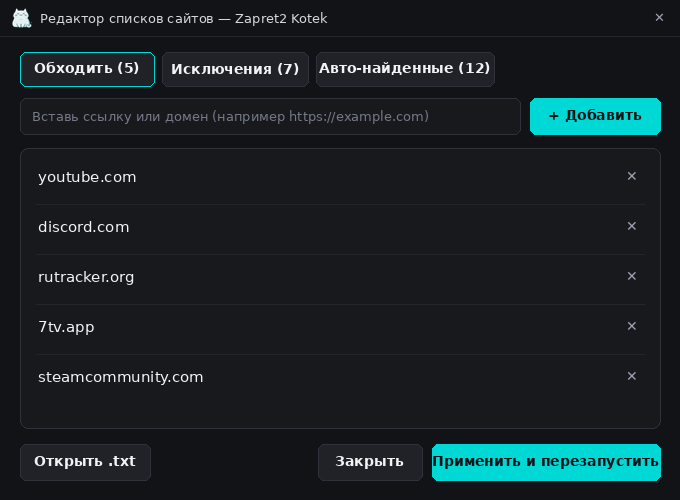
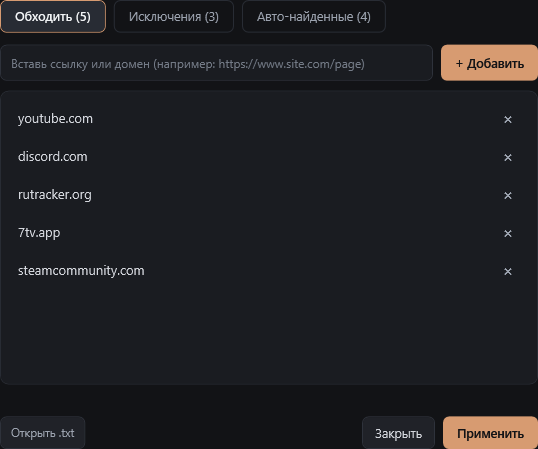
Release v1.1.0

diff --git a/README.md b/README.md
@@ -1,108 +1,86 @@
-# Zapret2 Kotek
+<p align="center">
+  <img src="utils/kotek_happy.png" width="96" alt="Котек" />
+</p>
 
-Windows-сборка (x64) для обхода DPI на базе `winws2.exe` ([bol-van/zapret2](https://github.com/bol-van/zapret2), ядро 1.0.7) и списков [Flowseal/zapret-discord-youtube](https://github.com/Flowseal/zapret-discord-youtube) (база 1.10.4). Включает WPF-интерфейс, автоподбор стратегий под провайдера, локальный Telegram MTProto WS Proxy и точечный обход ИИ-сервисов через Windows NRPT.
+<h1 align="center">Zapret2 Kotek</h1>
 
-[**Скачать v1.1.0 (Windows 10 / 11 x64)**](https://github.com/vanch150/zapret2-kotek/releases/latest) · [Релизы](https://github.com/vanch150/zapret2-kotek/releases) · [Лицензия MIT](LICENSE)
+<p align="center">
+  Настольная сборка <a href="https://github.com/bol-van/zapret2">zapret2</a> для Windows с нормальным интерфейсом, автоподбором стратегий, локальным Telegram-прокси и доступом к ИИ-сервисам.
+</p>
+
+<p align="center">
+  <a href="https://github.com/vanch150/zapret2-kotek/releases/latest"><strong>Скачать v1.1.0</strong></a> ·
+  <a href="https://github.com/vanch150/zapret2-kotek/releases">Все релизы</a> ·
+  <a href="#зачем-этот-проект">О проекте</a> ·
+  <a href="#быстрый-старт">Установка</a> ·
+  <a href="LICENSE">MIT</a>
+</p>
 
 ![Главное окно Zapret2 Kotek](docs/screenshots/home.png)
 
+## Зачем этот проект
+
+Сам по себе [zapret2](https://github.com/bol-van/zapret2) — отличный инструмент, но в базовом виде это консольная утилита и десятки `.bat`-файлов, которые нужно перебирать вручную, а потом ещё отдельно разбираться с Telegram, нейросетями, сломанным YouTube в браузере и конфликтами с VPN или античитами.
+
+**Zapret2 Kotek** делался как сборка «поставил и забыл» для обычных домашних ПК на Windows 10/11: без возни в терминале, но с открытым кодом и возможностью тонко всё настроить, если нужно.
+
+## Чем отличается от обычных батников
+
+- **Автоматический подбор вместо ручного перебора.** Программа сама тестирует готовые стратегии на вашем интернете (YouTube, Discord, 7TV, Cloudflare) и выбирает рабочую. Если провайдер режет трафик по-разному для разных сервисов, сборка умеет склеить персональный гибридный конфиг из лучших вариантов.
+- **Telegram и нейросети без сторонних VPN.** Внутрь встроен собственный локальный MTProto-прокси для Telegram Desktop (написан на C#, работает только на `127.0.0.1`) и точечный обход для ИИ-сервисов (Gemini, ChatGPT, Claude, Copilot, Grok, Perplexity, Cursor / Windsurf). Остальной интернет, банки и игры при этом идут напрямую, системный DNS провайдера не ломается.
+- **Уживается с играми и VPN.** Популярные VPN-клиенты (WireGuard, AmneziaWG, OpenVPN) исключаются автоматически и не конфликтуют с обходом. Если нужно зайти в игру со строгим античитом (Vanguard, FACEIT, EAC, BattlEye), обход можно полностью выгрузить вместе с драйвером в один клик, а потом так же вернуть.
+- **Всё открыто и проверяется.** Движок `winws2.exe` и драйвер `WinDivert` взяты напрямую из [bol-van/zapret2](https://github.com/bol-van/zapret2), списки и фейки — на базе [Flowseal/zapret-discord-youtube](https://github.com/Flowseal/zapret-discord-youtube). Обновления выходят только здесь и проверяются по контрольным суммам `SHA256SUMS.txt`.
+
 > [!WARNING]
-> Официальные сборки выходят только в разделе [Releases](https://github.com/vanch150/zapret2-kotek/releases) этого репозитория, каждый архив сопровождается `SHA256SUMS.txt`. Внутри используется подписанный драйвер `WinDivert` из [bol-van/zapret2](https://github.com/bol-van/zapret2) — Windows Defender и антивирусы часто отмечают его как `HackTool/WinDivert` или `RiskTool`. Это ложное срабатывание; при необходимости добавьте папку сборки в исключения антивируса.
+> **Про антивирус:** Windows Defender и антивирусы часто отмечают подписанный драйвер `WinDivert` как `HackTool/WinDivert` или `RiskTool`. Это стандартное ложное срабатывание для всех сборок на базе `zapret`. Скачивайте архив только из раздела [Releases](https://github.com/vanch150/zapret2-kotek/releases) этого репозитория и при необходимости добавьте папку программы в исключения.
 
-## Требования
+## Быстрый старт
 
-- Windows 10 или Windows 11 **x64** (используется 64-битный драйвер `WinDivert64.sys`).
-- Права администратора (нужны для служб Windows, драйвера `WinDivert`, правил NRPT и `hosts`).
-- Папка установки без кириллицы и пробелов (например, `C:\Zapret2`).
+1. Скачайте `zapret2-kotek-v1.1.0.zip` со страницы [Releases](https://github.com/vanch150/zapret2-kotek/releases/latest) и распакуйте в папку с английским путём (например, `C:\Zapret2`).
+2. Запустите `!_START_KOTEK.bat` и подтвердите права администратора.
+3. Запустите быструю настройку прямо в открывшемся окне — через 1–2 минуты службы поднимутся и заработают в фоне. После этого окно можно закрыть, при перезагрузке ПК всё стартует само.
 
-## Установка и запуск
-
-1. Скачайте архив `zapret2-kotek-v1.1.0.zip` со страницы [Releases](https://github.com/vanch150/zapret2-kotek/releases/latest) и распакуйте его в `C:\Zapret2` (или другую папку без русских букв и пробелов). Если запустить из «Загрузок», программа сама предложит перенести сборку в подходящую папку.
-2. Запустите `!_START_KOTEK.bat` и подтвердите запрос прав администратора.
-3. Нажмите **«Настроить быстро»** (1–2 минуты): обновятся списки доменов и IPSet, подберётся UDP-фейк и рабочая стратегия под вашего провайдера, запустятся фоновые службы Windows (`zapret` и `zapret-tgws`).
-4. Если нужен Telegram Desktop, нажмите **«Подключить»** в блоке **Telegram Proxy**.
-
-После настройки окно можно закрыть: обход работает фоновой службой Windows и запускается автоматически после перезагрузки ПК. Для работы без графического окна доступен консольный режим: `!_START_KOTEK.bat --cli`.
-
-## Что входит в сборку
-
-- **Автоподбор и синтез стратегий.** В комплекте 10 базовых стратегий (`strategies\`) и 12 дополнительных (`configs_archive\`). Быстрая настройка проверяет базовый набор; кнопка **«Собрать под себя»** прогоняет все 22 стратегии по 27 целям (YouTube, Discord, Cloudflare, Web + 64-КБ тест по `speed.cloudflare.com`) и собирает гибридный конфиг `custom_auto_synthesized.bat`.
-- **Встроенный Telegram WS Proxy.** Локальный C#-сервис (`utils\TgWsProxyService.cs`, компилируется системным `csc.exe` под .NET Framework 4.x), работает службой `zapret-tgws` под `NT AUTHORITY\NetworkService` и слушает только `127.0.0.1:1443`. Поддерживает режимы `smart` (сначала напрямую, при блокировке через резервный маршрут), `direct` и `cfonly`; использует равноправную гонку `ws://:80` и `wss://:443` без искусственной задержки (весь трафик внутри зашифрован MTProto).
-- **Обход ИИ (Windows NRPT + SmartDNS).** Точечно направляет DNS-запросы выбранных нейросетей через пул SmartDNS (`lists\ai-dns-pool.txt`), не меняя системный DNS провайдера и не затрагивая обычный интернет, игры и банки. Поддерживаются Google Gemini (включая AI Studio и NotebookLM), ChatGPT / OpenAI, Claude (включается только вручную), Copilot, Grok (xAI), Perplexity, Cursor / Windsurf и пользовательский файл `lists\ai-custom-domains.txt`. При включении системного VPN обход ИИ автоматически ставится на паузу и возвращается после отключения VPN.
-- **Совместимость с играми и VPN.** Кнопка **«Пауза»** останавливает службу `zapret` и полностью выгружает драйвер `WinDivert`. Фильтр NLM (`--nlm-filter-neg=1`) по умолчанию автоматически исключает WireGuard, AmneziaWG, OpenVPN и другие VPN-адаптеры; нужные интерфейсы можно переназначить вручную в Настройках.
-- **Фикс браузера (QUIC / DoH).** Раздельные переключатели отключения QUIC (HTTP/3) и включения DoH для Chrome, Edge, Яндекс.Браузера, Brave, Vivaldi и Firefox (для Opera / Opera GX показывается подсказка по `opera://flags/#enable-quic`), с резервной копией политик и полным откатом.
-- **Диагностика и автообновление.** Графическое окно диагностики проверяет службы, драйвер `WinDivert`, 7TV CDN, VPN/NLM, Telegram Proxy и «Обход ИИ» (секреты и пути профиля в копируемом отчёте маскируются). Автообновление работает в простое ПК с обязательной проверкой `SHA256SUMS.txt`.
+Удалить программу полностью (включая службы, драйвер, правила DNS и `hosts`) можно из настроек приложения или файлом `utils\UNINSTALL.bat`.
 
 <details>
-<summary>Другие скриншоты интерфейса</summary>
+<summary>Ещё скриншоты интерфейса</summary>
 
-**Вкладка «Стратегии»** — рейтинг по результатам проверки, ручной тест и импорт своего `.bat`:
+![Стратегии](docs/screenshots/strategies.png)
 
-![Вкладка Стратегии](docs/screenshots/strategies.png)
-
-**Вкладка «Настройки»** — переключатели параметров обхода, списки, диагностика, обновления и удаление:
-
-![Вкладка Настройки](docs/screenshots/settings.png)
-
-**Редактор списков и фильтр VPN (NLM):**
+![Настройки](docs/screenshots/settings.png)
 
 <table>
 <tr>
-<td width="50%"><img src="docs/screenshots/lists_dialog.png" alt="Редактор списков сайтов" /></td>
-<td width="50%"><img src="docs/screenshots/nlm_dialog.png" alt="Исключение VPN-адаптеров NLM" /></td>
+<td width="50%"><img src="docs/screenshots/lists_dialog.png" alt="Свои списки сайтов" /></td>
+<td width="50%"><img src="docs/screenshots/nlm_dialog.png" alt="Исключение VPN-адаптеров" /></td>
 </tr>
 </table>
 
 </details>
 
-## Ограничения и приватность
+## Что стоит учитывать
 
-- Это не VPN: трафик не шифруется и ваш IP-адрес не скрывается. Инструмент обходит DPI-блокировки провайдера и не открывает сервисы, которые сами ограничивают доступ по региону (исключение — выбранные нейросети в разделе «Обход ИИ» через SmartDNS).
-- Работоспособность конкретной стратегии зависит от провайдера и конфигурации ТСПУ. Если сайты перестали открываться, запустите подбор стратегий повторно.
-- Телеметрия выключена по умолчанию. Добровольные анонимные отчёты (версия сборки, активная стратегия и коды сбоев — без IP, путей на диске и списков сайтов) можно включить вручную в разделе **Настройки → Поддержка проекта**.
-
-## Частые проблемы
-
-- **Тормозит YouTube или не грузятся смайлы 7TV в браузере.** На Главной раскройте **«Фикс браузера (QUIC / DoH)» → «Параметры»**, включите **«Отключить QUIC (HTTP/3)»** и полностью перезапустите браузер. Если вы используете «Обход ИИ», тумблер **DoH** оставьте выключенным — браузерный DoH идёт в обход правил NRPT.
-- **Не слышно голос в Discord.** В блоке **«Голос в Discord и онлайн-игры»** на Главной нажмите **«Подобрать»** — программа протестирует и выберет рабочий UDP-фейк.
-- **Не подключается онлайн-игра или ругается античит.** Включите **«Игровой фильтр (GameFilter)»** в Настройках. Если игре мешает сам драйвер (Vanguard, FACEIT, EAC, BattlEye), на время матча нажмите **«Пауза»** на Главной — это полностью выгрузит `WinDivert`.
-- **Не открывается конкретный сайт.** Добавьте домен в **Настройки → Свои списки сайтов и исключений** (список `lists\list-general-user.txt` автоматически перекрывает системные исключения) или запустите **«Собрать под себя»**.
-
-## Обновление и удаление
-
-- **Обновление.** Вручную через **Настройки → Обновления Zapret2 Kotek (GitHub) → Проверить** или по расписанию в простое ПК (раз в неделю, дважды в неделю, раз в месяц или при запуске Windows). Скрипт `utils\self_update.ps1` скачивает релиз только из этого репозитория и сверяет архив по `SHA256SUMS.txt` (режим fail-closed: при отсутствии файла или несовпадении хэша обновление отменяется). Личные списки (`*-user.txt`, `ai-custom-domains.txt`, `targets.txt`), настройки, бэкапы браузера и секрет Telegram сохраняются.
-- **Полное удаление.** Откройте **Настройки → Удалить Zapret2 Kotek из системы** или запустите `utils\UNINSTALL.bat`. Скрипт остановит и удалит службы `zapret` и `zapret-tgws`, выгрузит `WinDivert`, снимет правила NRPT, удалит задачу автообновления, записи в `hosts` и в «Приложениях Windows», а также откатит политики браузеров. После этого папку сборки можно удалить вручную.
-
-## Технические детали
+- **Это не VPN.** Программа не шифрует трафик и не скрывает ваш IP-адрес. Она обходит блокировки со стороны провайдера, но не открывает сервисы, которые сами закрыли доступ по региону (исключение — выбранные нейросети в разделе «Обход ИИ»).
+- **Блокировки меняются.** Если стратегия перестала помогать, нужно просто запустить подбор заново.
+- **YouTube в браузере.** Если видео всё равно тормозит или не грузятся смайлы 7TV, обычно мешает протокол QUIC (HTTP/3) в браузере — в программе есть встроенный переключатель для его отключения с откатом.
+- **Приватность.** Сбор анонимных отчётов об ошибках выключен по умолчанию и включается только по желанию пользователя (IP, пути и списки сайтов не отправляются).
 
 <details>
-<summary>Архитектура и структура файлов</summary>
+<summary>Под капотом (для тех, кому интересна техническая часть)</summary>
 
-### Компоненты
-
-- **Движок обхода:** `bin\winws2.exe` из `bol-van/zapret2`, Lua-скрипты (`lua\`) и ядерные UDP-фильтры `bin\filters\windivert_part.*`.
-- **Подбор стратегий:** `utils\auto_setup.ps1` (быстрая настройка) и `utils\deep_optimize.ps1` (полный прогон 22 стратегий × 27 целей и синтез `custom_auto_synthesized.bat`).
-- **Обход ИИ:** `utils\ai_bypass_helper.ps1` создаёт правила Windows NRPT с тегом `Zapret2KotekAI` через реестр `DnsPolicyConfig` и выбирает живой узел из `lists\ai-dns-pool.txt`.
-- **Безопасность автообновления:** `utils\autoupdate_task.ps1` регистрирует задачу Планировщика Windows с флагом `-RunOnlyIfIdle`. При включении автообновления выставляются строгие NTFS-права (`icacls`) на папки скриптов и бинарников с сохранением минимальных прав для `NT AUTHORITY\NetworkService` (запуск `bin\tg-ws-proxy.exe` и запись только в `bin\logs\`). Распаковка защищена от Zip-Slip; бинарник прокси проверяется двойным SHA-256 (`CS=/EXE=`).
-
-### Структура папок
-
-| Путь | Назначение |
-| :--- | :--- |
-| `!_START_KOTEK.bat` | Запуск WPF-интерфейса с запросом UAC (`--cli` для консольного меню) |
-| `strategies\` | 10 базовых `.bat`-стратегий |
-| `configs_archive\` | 12 дополнительных `.bat`-стратегий |
-| `bin\` | `winws2.exe`, `WinDivert`, `tg-ws-proxy.exe`, фильтры `filters\` и `.bin`-фейки |
-| `lua\` | Lua-библиотеки анти-DPI из `zapret2` |
-| `lists\` | Основные списки (`list-general.txt`, `ipset-all.txt`), авто-список (`list-auto.txt`), личные списки (`*-user.txt`, `ai-custom-domains.txt`) и пул SmartDNS (`ai-dns-pool.txt`) |
-| `utils\` | PowerShell-скрипты, WPF-разметка (`gui_layout.xaml`), исходник `TgWsProxyService.cs`, цели бенчмарка (`targets.txt`) и отдельные `.bat`-утилиты (`AUTO_SETUP.bat`, `DEEP_OPTIMIZE.bat`, `PAUSE_RESUME.bat`, `UNINSTALL.bat`) |
+- **Ядро:** `bin\winws2.exe` из [bol-van/zapret2](https://github.com/bol-van/zapret2) (1.0.7), Lua-скрипты (`lua\`) и ядерные фильтры `bin\filters\windivert_part.*`. Списки и `.bin`-фейки на базе [Flowseal/zapret-discord-youtube](https://github.com/Flowseal/zapret-discord-youtube) (1.10.4).
+- **Стратегии:** 10 базовых (`strategies\`) и 12 дополнительных (`configs_archive\`), бенчмарк по 27 целям + 64-КБ проверка по `speed.cloudflare.com`, синтез гибрида (`utils\deep_optimize.ps1`).
+- **Telegram Proxy:** C# 5 сервис (`utils\TgWsProxyService.cs`, собирается системным `.NET 4.x csc.exe`), служба `zapret-tgws` под `NT AUTHORITY\NetworkService`, loopback `127.0.0.1:1443`, режимы `smart` / `direct` / `cfonly`, равноправная гонка `ws://:80` и `wss://:443`.
+- **Обход ИИ:** точечные правила Windows NRPT (`utils\ai_bypass_helper.ps1`) на пул SmartDNS (`lists\ai-dns-pool.txt`) с автопаузой при активном системном VPN.
+- **Автообновление:** `utils\self_update.ps1` с обязательной проверкой `SHA256SUMS.txt` (fail-closed), защитой от Zip-Slip, сохранением пользовательских списков (`*-user.txt`, `ai-custom-domains.txt`, `targets.txt`) и задачей Планировщика в простое ПК.
+- **CLI:** для работы без GUI поддерживается `!_START_KOTEK.bat --cli`.
 
 </details>
 
-## Компоненты и лицензия
+## Основа проекта и лицензия
 
-Проект распространяется под лицензией [MIT](LICENSE) и использует открытые разработки:
+Код распространяется под лицензией [MIT](LICENSE). Информация о сторонних компонентах вынесена в [THIRD_PARTY_NOTICES.md](THIRD_PARTY_NOTICES.md).
 
-- [bol-van/zapret2](https://github.com/bol-van/zapret2) (MIT) — `winws2.exe`, Lua-библиотеки и фильтры `windivert_part.*`.
-- [Flowseal/zapret-discord-youtube](https://github.com/Flowseal/zapret-discord-youtube) (MIT) — списки доменов/IPSet, коллекция `.bin`-фейков и базовые стратегии.
+- [bol-van/zapret2](https://github.com/bol-van/zapret2) (MIT) — движок `winws2.exe`, Lua-библиотеки и ядерные фильтры.
+- [Flowseal/zapret-discord-youtube](https://github.com/Flowseal/zapret-discord-youtube) (MIT) — базы доменов/IPSet, `.bin`-фейки и базовые стратегии.
 - [WinDivert](https://github.com/basil00/WinDivert) (LGPLv3 / GPLv2) — драйвер пакетной фильтрации для Windows.
